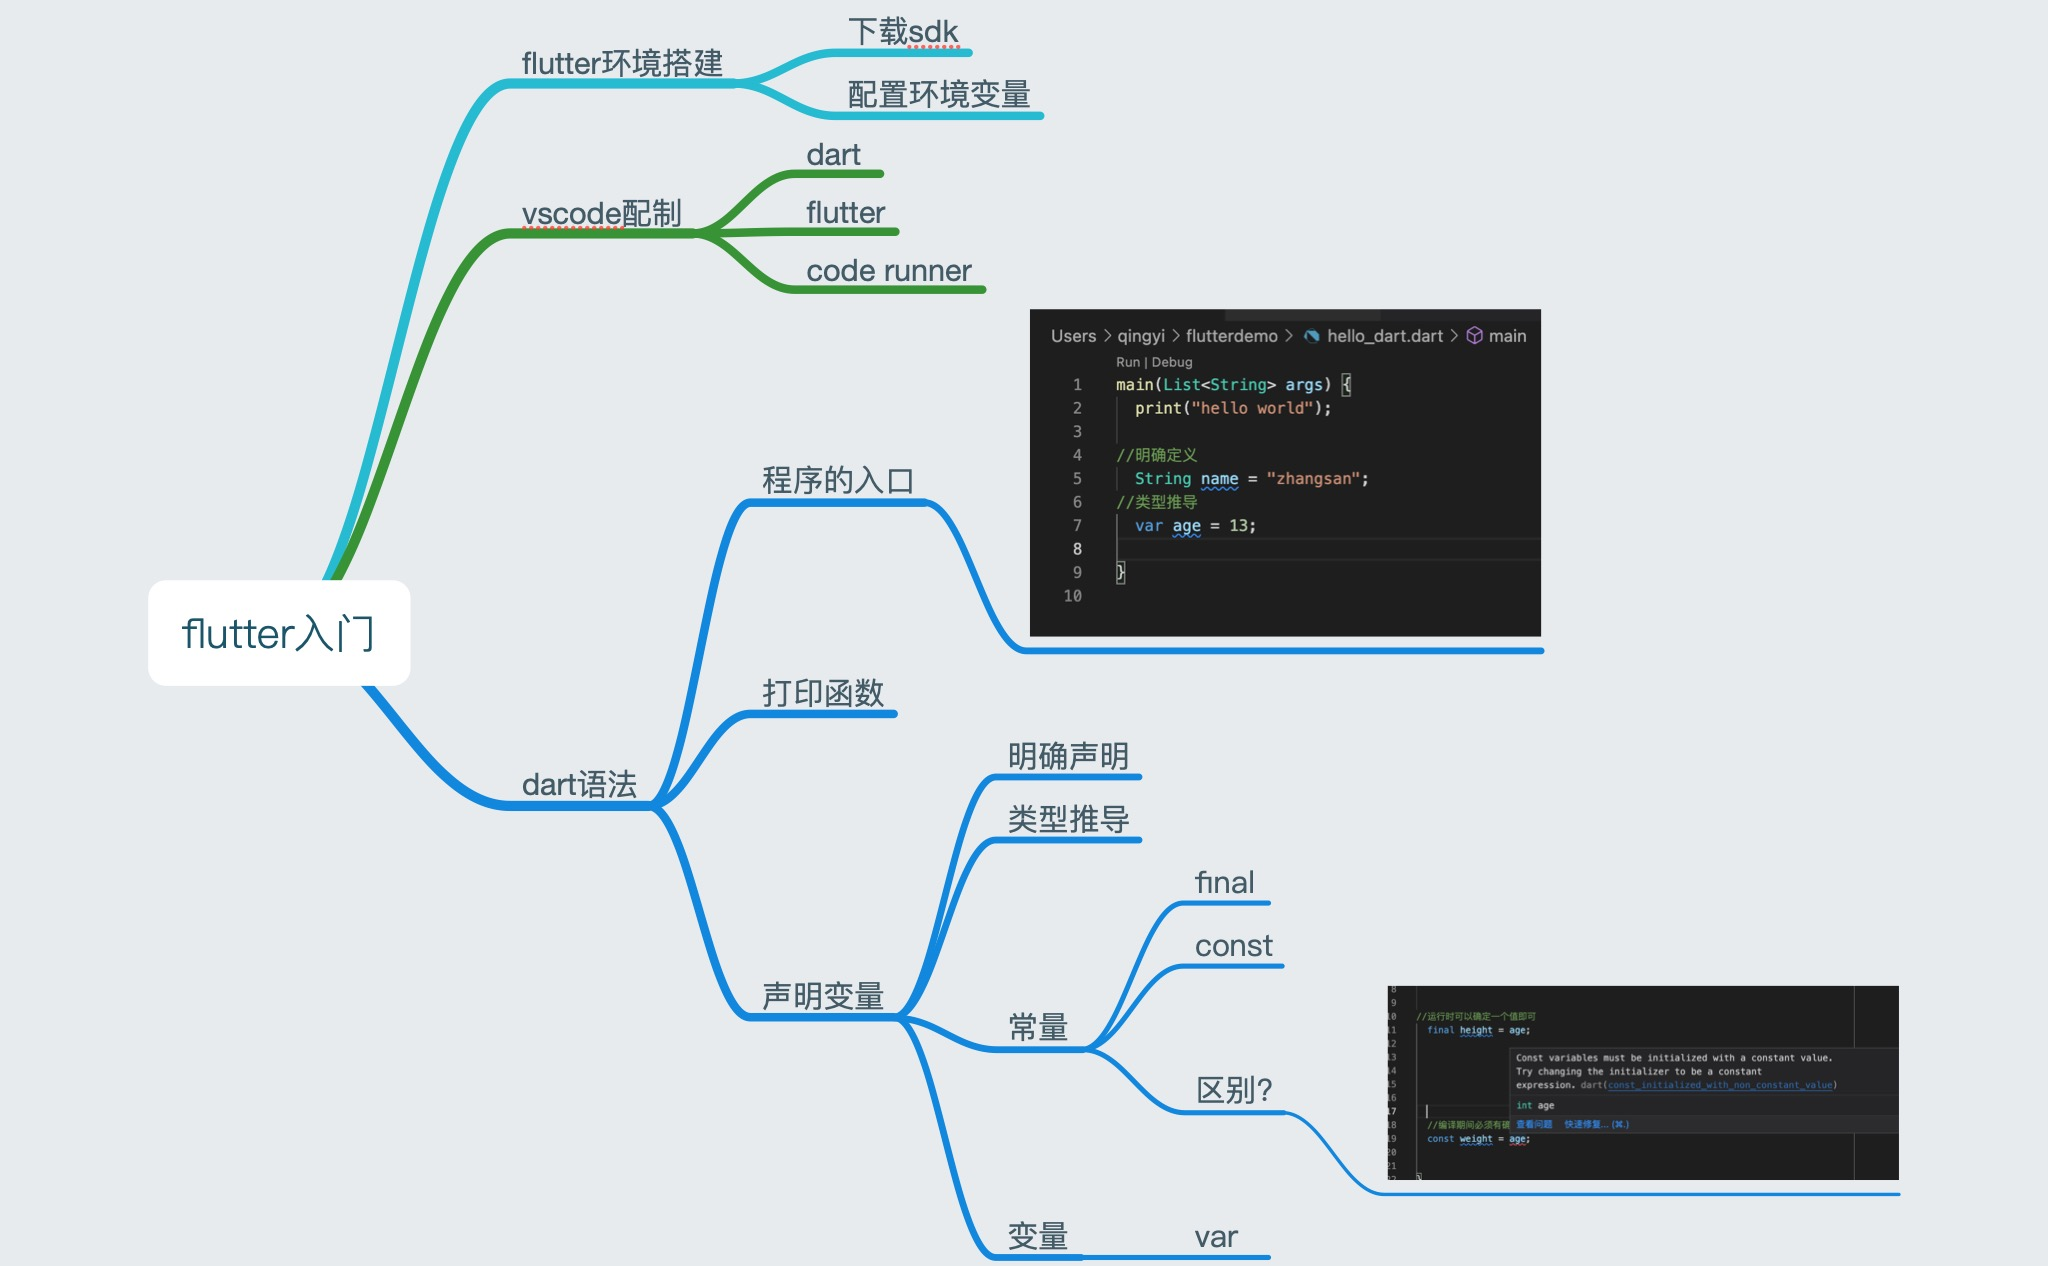
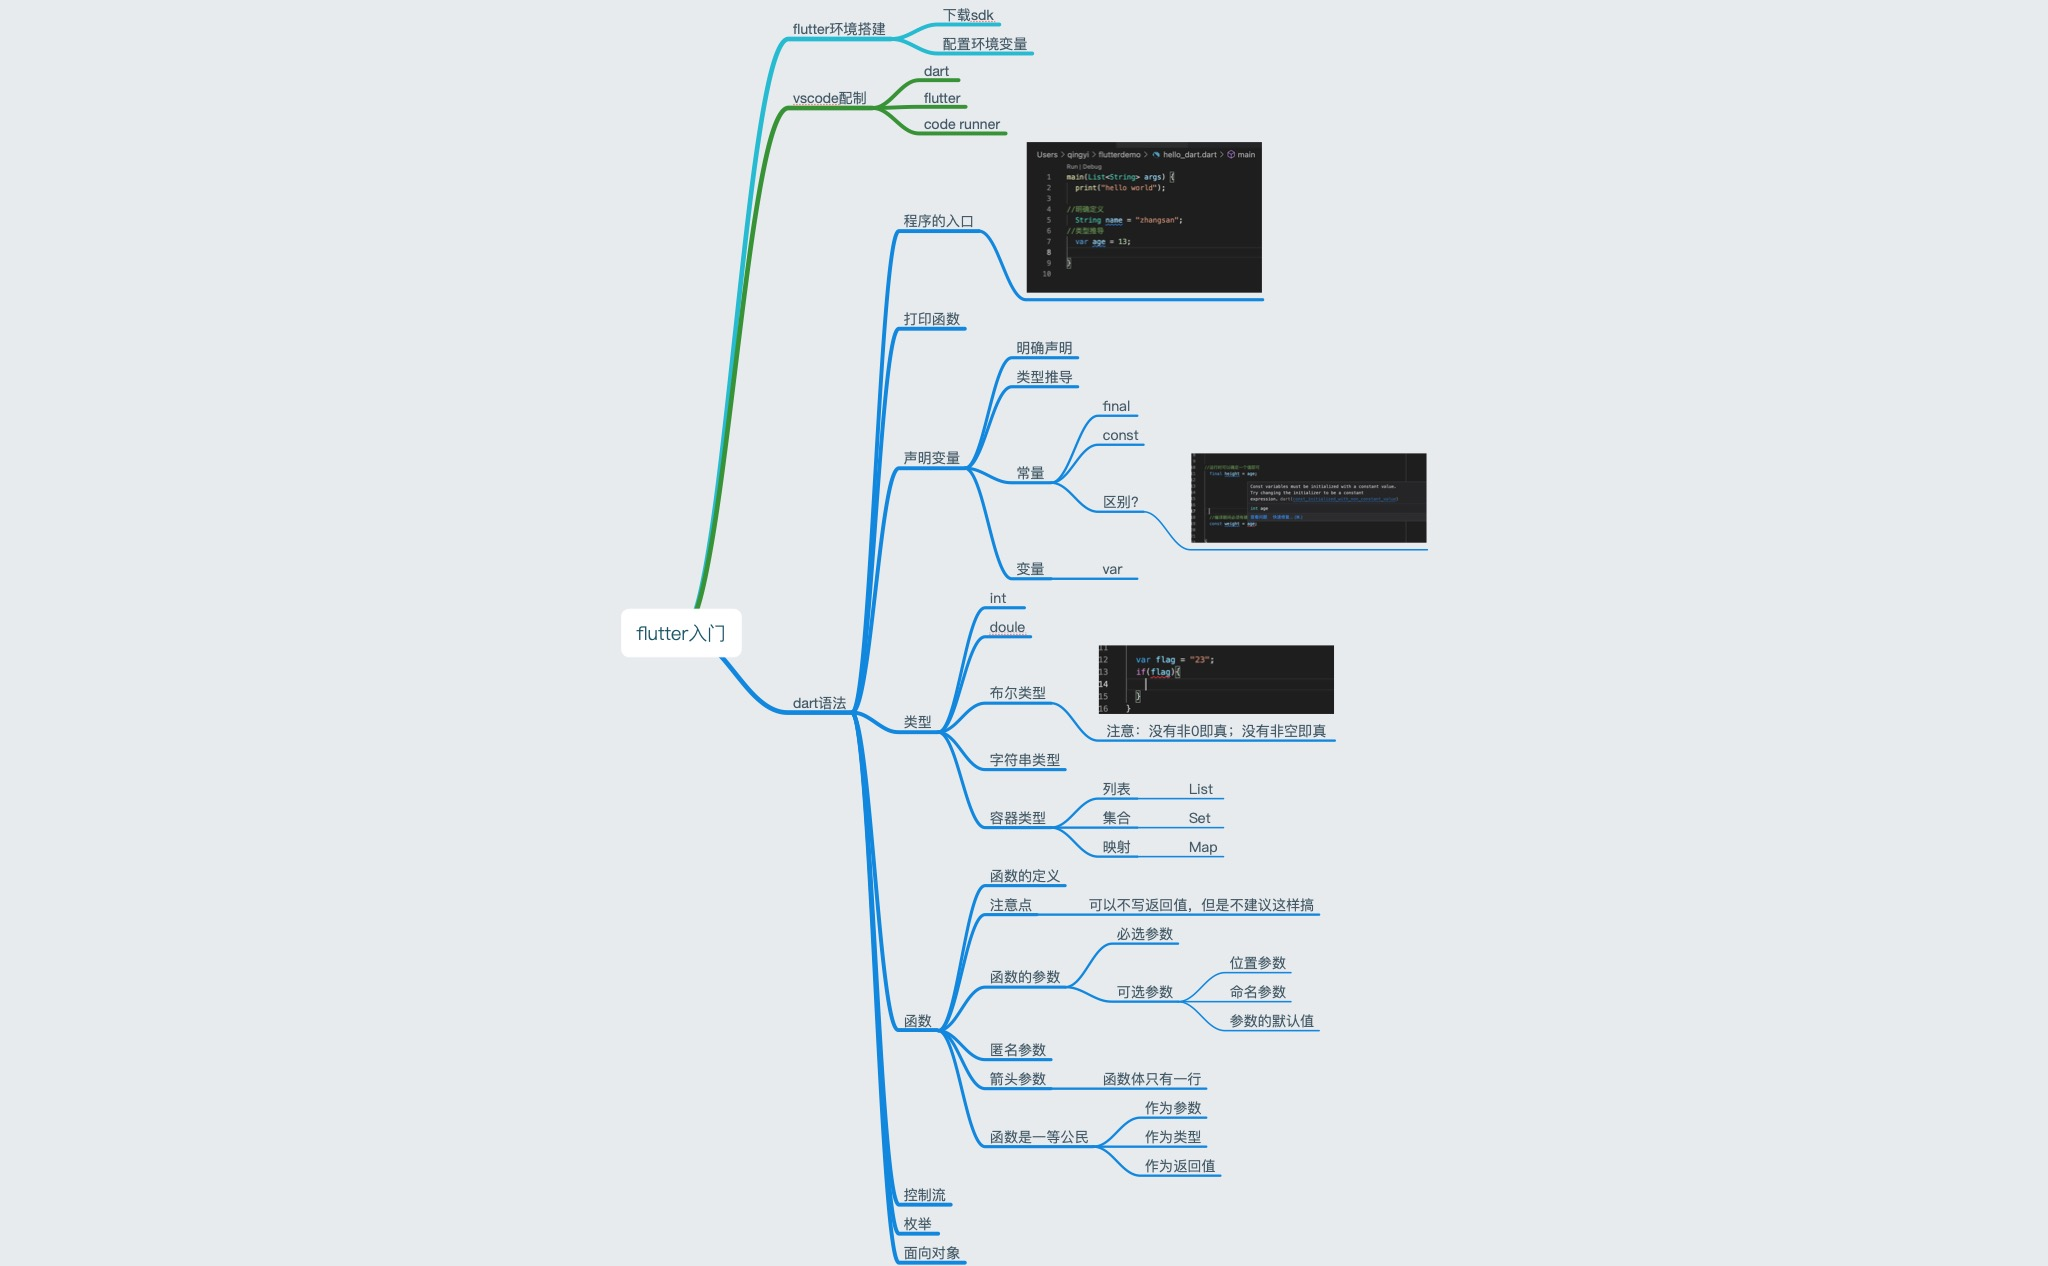
添加flutterdemo

Changed region(s): [[0.1562, 0.0, 0.9375, 1.0], [0.1875, 0.5545, 0.2188, 0.6161], [0.0938, 0.4929, 0.1562, 0.5237]]

diff --git a/flutterdemo/hellodart.dart b/flutterdemo/hellodart.dart
@@ -1,0 +1,138 @@
+main(List<String> args) {
+  // print("hello dart");
+
+  // final p1 = Person("why");
+  // final p2 = Person("why");
+  // print(identical(p1, p2));
+  const p1 = Person("why");
+  const p2 = Person("why");
+  const p3 = Person("why1");
+  // print(identical(p1, p3));
+
+  var flag = true;
+  if (flag) {}
+
+  //字符串
+  var str1 = '1212';
+  var str2 = "1234";
+  var str3 = """
+  232323
+  2323
+  """;
+  // print(str3);
+
+  var name = "张三";
+  //字符串拼接
+  final des = "my name is ${name}";
+  final des2 = "my name is $name";
+  final des3 = "my name is $name,type is ${name.runtimeType}";
+
+  print(des);
+  print(des.runtimeType);
+
+  //集合类型，列表list，集合set(元素不能重复，常用于数组去重)，字典map
+  //字面量创建
+  var names = ["a", "b", "c", "a"];
+  names.add("d");
+  print(names);
+  print(Set.from(names).toList());
+  var sets = {"1", "2", "3"};
+  print(sets);
+  var infos = {"name": "张三", "age": 19};
+  print(infos);
+
+  // print(sum(1, 2));
+  // sayHello("hello world!");
+  // sayHello2("hello", 1, "22");
+  // sayHello3("hello");
+
+  // test(bar);
+  //匿名函数
+  test(() {
+    print("匿名函数被调用");
+    return 10;
+  });
+
+  //箭头函数（函数体只有一行）
+  test(() => print("箭头函数被调用"));
+
+  // test2(sum);
+  print(test3()(1, 2));
+}
+
+//函数定义
+int sum(int num, int num2) {
+  return num2 + num;
+}
+
+//函数返回值可以省略，开发中不推荐
+// sum(int num, int num2) {
+//   return num2 + num;
+// }
+
+//函数的可选参数
+//必选参数
+void sayHello(String hello) {
+  print(hello);
+}
+
+//注意：dart中没有函数重载
+// void sayHello(String hello) {
+//   print(hello);
+// }
+
+//可选参数：
+// -位置可选参数
+void sayHello2(String hello, [int? age, String? name]) {
+  print("$hello $age $name");
+}
+
+//可选参数：
+// -命名可选参数
+void sayHello3(String hello, {int? age, String? name}) {
+  print("$hello $age $name");
+}
+
+//参数默认值，只有可选参数才有默认值
+void sayHello21(String hello, [int age = 1, String name = "22"]) {
+  print("$hello $age $name");
+}
+
+void sayHello31(String hello, {int? age, String? name = "31"}) {
+  print("$hello $age $name");
+}
+
+void sayHello32(String hello, {int? age, String name = "31"}) {
+  print("$hello $age $name");
+}
+
+//函数是一等公民，可以作为类型，参数，返回值
+// 作为参数
+
+void test(Function foo) {
+  foo();
+}
+
+//作为类型
+typedef SumFunc = int Function(int num1, int num2);
+void test2(SumFunc sumf) {
+  print("test2 begin");
+  print(sumf(20, 39));
+  print("test2 end");
+}
+
+//作为返回值
+SumFunc test3() {
+  return (int a, int b) {
+    return a + b;
+  };
+}
+
+void bar() {
+  print("hello bar");
+}
+
+class Person {
+  final String name;
+  const Person(this.name);
+}
